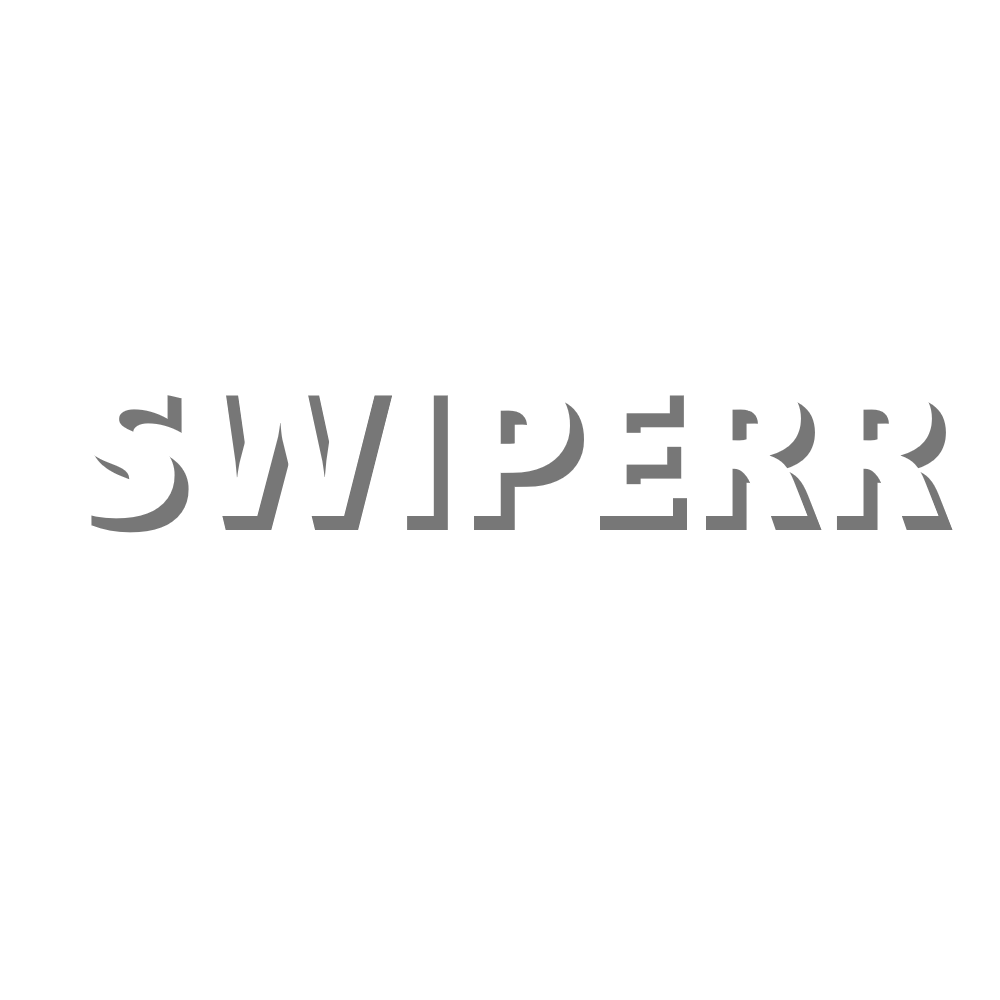
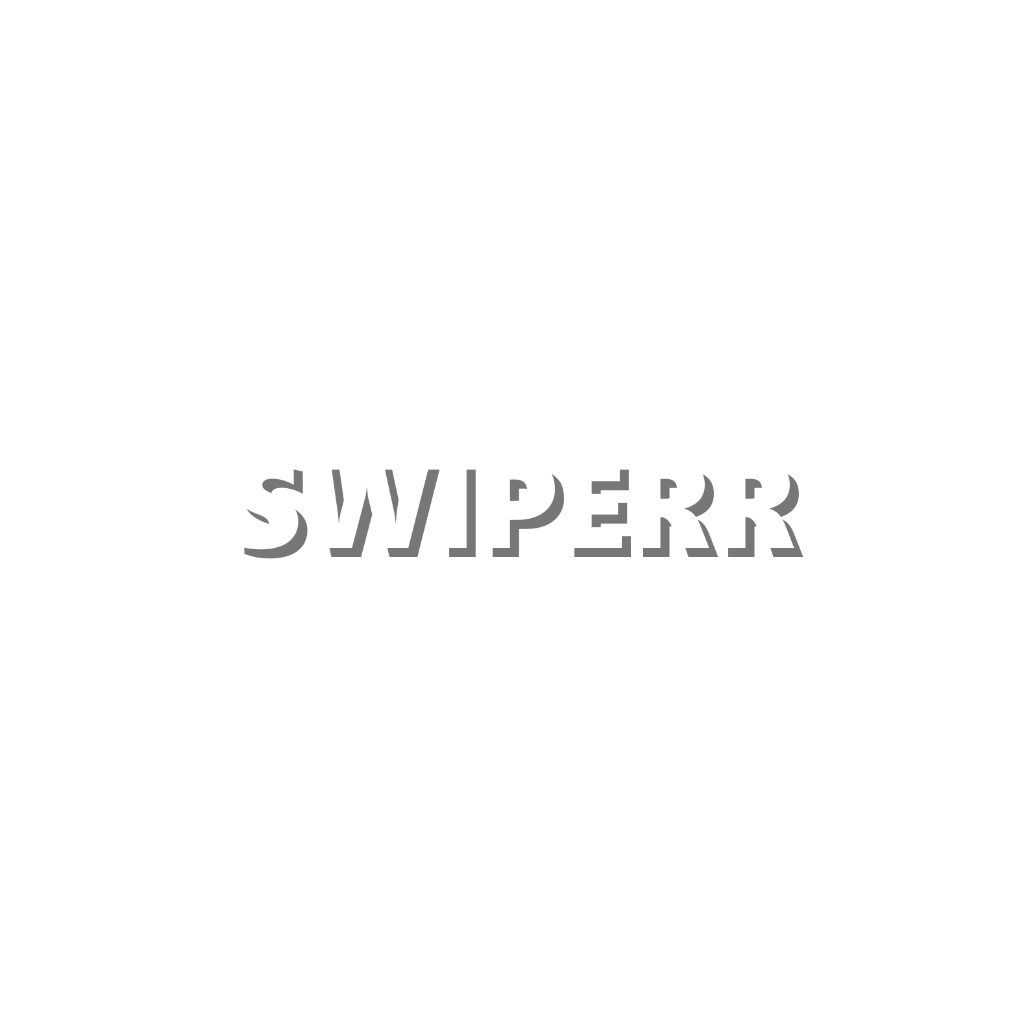
Minor android realease (#92)
* fix invalid logo image and splash format

* [fix] logo out of bounds and remove unused assets

Changed region(s): [[0.217, 0.372, 0.961, 0.558], [0.093, 0.465, 0.186, 0.558], [0.124, 0.372, 0.186, 0.434]]

diff --git a/screens/Settings.tsx b/screens/Settings.tsx
@@ -10,6 +10,8 @@ import useSpotifyContext from '../hooks/useSpotifyAuth';
 import { getLocation } from '../components/utils/country-utils';
 import { mobileRedirectUri, redirectUri, webRedirectUri } from '../hooks/utils/auth-utils';
 import { dropdownSize } from '../types';
+import useError from '../hooks/useError';
+import { CLIENT_ID, CLIENT_SECRET } from '@env';
 
 function MockSettingItems() {
   const [exampleBool, setExampleBool] = useState(false);
@@ -37,7 +39,12 @@ function MockSettingItems() {
       <SettingItemDropdown
         header="Debug info"
         explanation="This is debug info for development resons. If you are testing you can ignore this dropdown."
-        options={[redirectUri, webRedirectUri, mobileRedirectUri]}
+        options={[
+          redirectUri, 
+          webRedirectUri, 
+          mobileRedirectUri, 
+          CLIENT_ID !== undefined ? "client id exists" : "client id does not exist",
+          CLIENT_SECRET !== undefined ? "client secret exists" : "client secret does not exist",]}
         dropdownSize={dropdownSize.MEDIUM}
       />
 
@@ -55,6 +62,8 @@ function SettingItems() {
     queueAndSkip
   } = useSpotifyContext();
 
+  const {addErrorText} = useError();
+
   const likedSongs = 'Liked songs';
   function getDefaultPlaylist(playlistName: string) {
     if (playlistName === likedSongs) {
@@ -64,6 +73,9 @@ function SettingItems() {
     const playlist = playlists.find((playlist: { name: string; }) => playlist.name === playlistName);
     setDefaultPlaylist(playlist.id);
   }
+
+  
+  
 
   return (
     <View>
@@ -91,7 +103,9 @@ function SettingItems() {
         options={[likedSongs, ...playlists.map((playlist: { name: string; }) => playlist.name)]}
         defaultValue={likedSongs}
         dropdownSize={dropdownSize.MEDIUM}
-        onSelect={(value: string) => getDefaultPlaylist(value)}
+        onSelect={(value: string) => {
+          getDefaultPlaylist(value)
+        }}
       />
     </View>
   );
